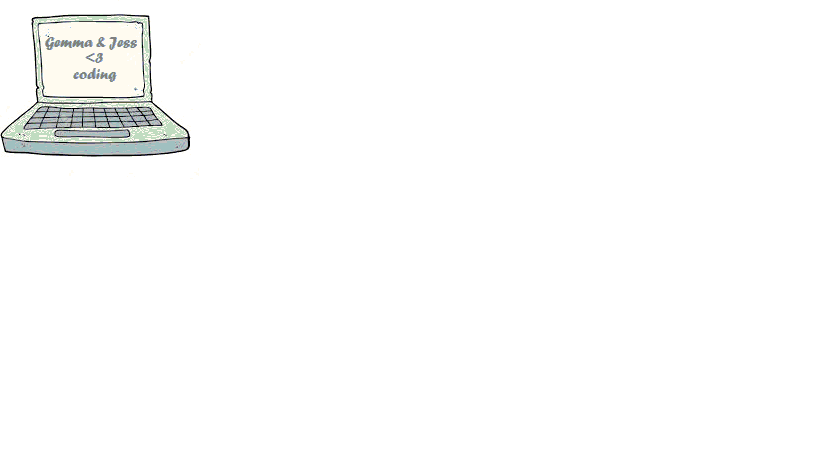
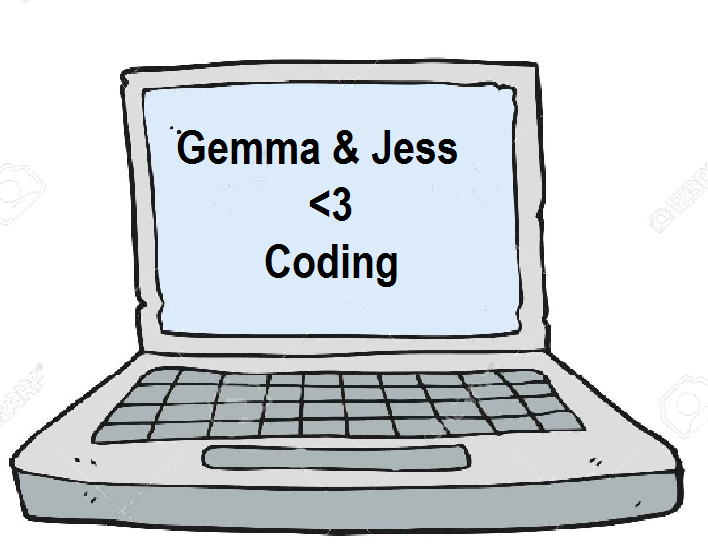
make image bigger

diff --git a/aboutchestermap.html b/aboutchestermap.html
@@ -1,0 +1,17 @@
+<!DOCTYPE html>
+<html>
+<head>
+<title> About Chester Map Site</title>
+</head>
+<body>
+
+<h1> About Chester Map Site</h1>
+<p>Chester is a city of history and heritage. This site was made by Gemma and Jess. We both moved to Chester in summer 2019 and have been discovering new places
+ever since. We hope that your visit to our website has been a good one, this is our first of many websites!
+
+This website was created as part of the curriculum for the CodeFirst:Girls Beginners coding course.
+Thank you CodeFistGirls and Bank of America Merrill Lynch for supporting women to get into tech.
+"Never doubt that you are valuable , powerful and deserving of every opportunity in the world and every chance to pursue your dreams" </p>
+<img src="https://i.imgur.com/rUbreNI.png" alt="Gemma and Jess" width="400" height="300">
+</body>
+</html>
